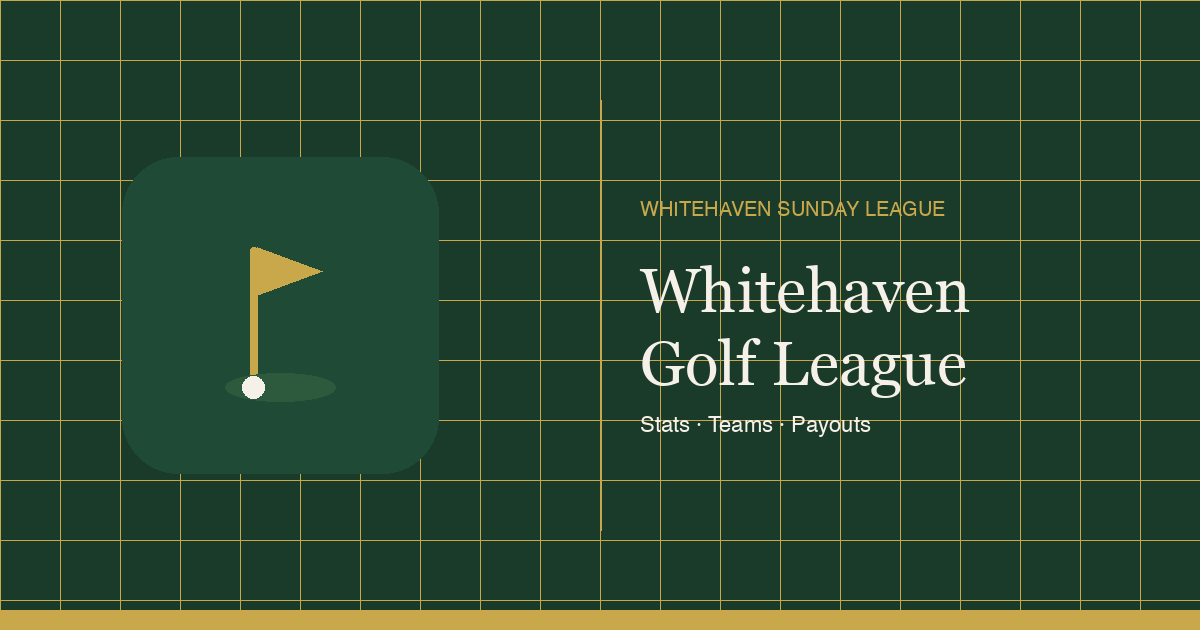
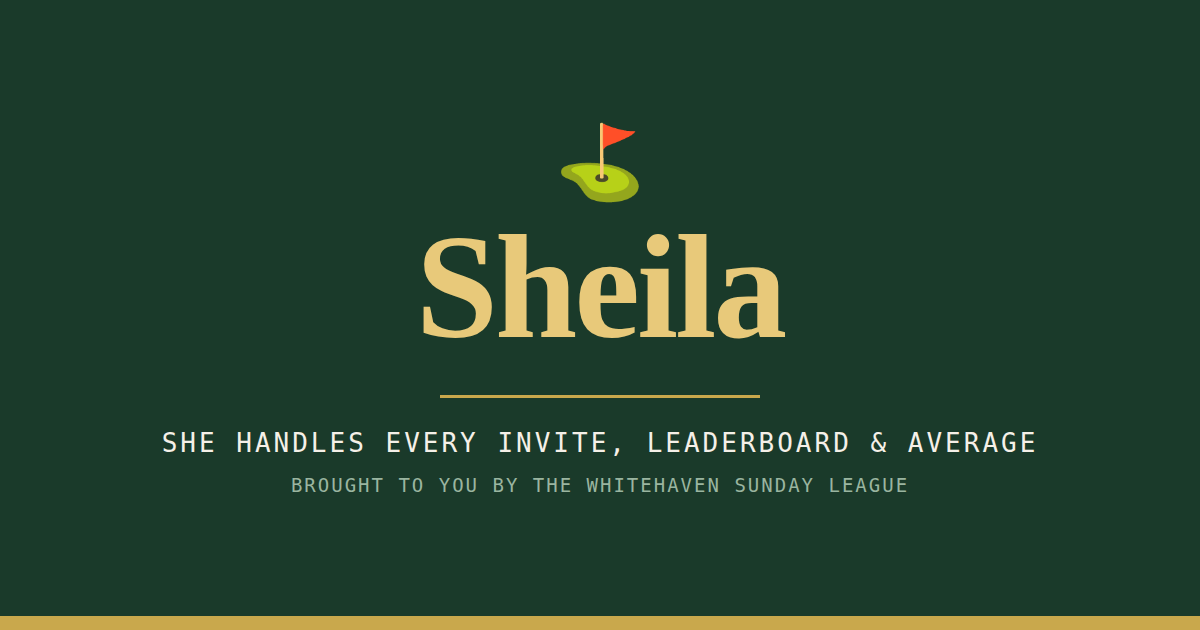
Rebrand app as Sheila, brought to you by the Whitehaven Sunday League (#4)
The league's nickname for the app is now the official brand:
- New stacked header lockup on the main app and RSVP page: gold
  "Sheila" wordmark with a small "brought to you by the Whitehaven
  Sunday League" credit line, acronym tooltip on hover
- Acronym: She Handles Every Invite, Leaderboard & Average
- Page titles, og: meta, iOS home-screen label, and PWA manifest
  renamed; og-image regenerated with the new wordmark
- Reminder emails send from "Sheila <noreply@...>" with the new
  header and a signature line
- Commish Guide intro and Release Notes intro updated; new v2.0
  "Meet Sheila" release entry
- README, CLAUDE.md, and file header comments retitled

Internal whg_ storage keys and the "Whitehaven" course defaults are
intentionally unchanged.

Claude-Session: https://claude.ai/code/session_016QFtsYT9WuBQAVqS4BUQJg

diff --git a/index.html b/index.html
@@ -3,12 +3,12 @@
 <head>
   <meta charset="UTF-8">
   <meta name="viewport" content="width=device-width, initial-scale=1.0">
-  <title>Whitehaven Golf League</title>
+  <title>Sheila — Whitehaven Sunday League</title>
   <!-- No indexing -->
   <meta name="robots" content="noindex, nofollow, noarchive">
   <!-- Open Graph -->
-  <meta property="og:title" content="Whitehaven Golf League">
-  <meta property="og:description" content="Sunday shambles league — stats, teams, and payouts.">
+  <meta property="og:title" content="Sheila">
+  <meta property="og:description" content="She Handles Every Invite, Leaderboard &amp; Average — the Whitehaven Sunday League app.">
   <meta property="og:type" content="website">
   <meta property="og:url" content="https://whitehavensundayleague.com">
   <meta property="og:image" content="https://whitehavensundayleague.com/og-image.png">
@@ -17,7 +17,7 @@
   <link rel="apple-touch-icon" href="icon.svg">
   <meta name="apple-mobile-web-app-capable" content="yes">
   <meta name="apple-mobile-web-app-status-bar-style" content="black-translucent">
-  <meta name="apple-mobile-web-app-title" content="WHG">
+  <meta name="apple-mobile-web-app-title" content="Sheila">
   <meta name="theme-color" content="#1a3a2a">
   <link href="https://fonts.googleapis.com/css2?family=Playfair+Display:wght@400;700;900&family=DM+Mono:wght@400;500&family=DM+Sans:wght@300;400;500&display=swap" rel="stylesheet">
   <link rel="stylesheet" href="style.css">
@@ -87,7 +87,10 @@
 
 <!-- ===== HEADER ===== -->
 <header>
-  <div class="logo">⛳ Whitehaven <span>Golf League</span></div>
+  <div class="logo-lockup" title="She Handles Every Invite, Leaderboard &amp; Average">
+    <div class="logo">⛳ Sheila</div>
+    <div class="logo-tagline">brought to you by the Whitehaven Sunday League</div>
+  </div>
   <nav id="main-nav">
     <!-- Commish-only tabs -->
     <a class="commish-tab" data-page="round"    href="/round"    onclick="event.preventDefault();showPage('round')">Round</a>
@@ -376,7 +379,7 @@
     <div class="card">
       <h2>Overview</h2>
       <p style="font-size:14px;color:var(--text-muted);line-height:1.6;">
-        Whitehaven runs a 9-hole shambles format. Each week follows five steps: send the RSVP link, set up the round, build teams, enter scores, then finalize. Scores and round state auto-save to the cloud as you work — safe to close and reopen at any point.
+        The Whitehaven Sunday League runs a 9-hole shambles format. Each week follows five steps: send the RSVP link, set up the round, build teams, enter scores, then finalize. This app — <strong>Sheila</strong> (She Handles Every Invite, Leaderboard &amp; Average) — auto-saves scores and round state to the cloud as you work, so it's safe to close and reopen at any point.
       </p>
       <div style="margin-top:16px;display:flex;gap:8px;flex-wrap:wrap;align-items:center;">
         <span class="tag">0 RSVP</span>
@@ -665,10 +668,24 @@
   <div id="page-releases" class="page">
     <div class="page-header">
       <h1>Release Notes</h1>
-      <p>Running log of changes to the Whitehaven Golf League app. Newest first.</p>
+      <p>Running log of changes to Sheila, the Whitehaven Sunday League app. Newest first.</p>
     </div>
 
     <div class="card">
+      <div class="release-entry">
+        <div class="release-header">
+          <span class="release-version">v2.0</span>
+          <span class="release-date">September 20, 2026</span>
+        </div>
+        <h3>Meet Sheila</h3>
+        <ul class="release-list">
+          <li><strong>The app has a name.</strong> What we've all been calling her anyway is now official: this is <strong>Sheila</strong> — <em>She Handles Every Invite, Leaderboard &amp; Average</em>.</li>
+          <li>New header wordmark on the main app and the RSVP page, with a small "brought to you by the Whitehaven Sunday League" credit line. Hover the logo for the full acronym.</li>
+          <li>Browser tab titles, the home-screen app name, and link preview cards all say Sheila now.</li>
+          <li>Reminder emails arrive from "Sheila" with the new header and a signature line.</li>
+          <li>Nothing else moved — same colors, same tabs, same login, and nobody gets signed out.</li>
+        </ul>
+      </div>
       <div class="release-entry">
         <div class="release-header">
           <span class="release-version">v1.9</span>

diff --git a/scripts/send-reminders.js b/scripts/send-reminders.js
@@ -1,6 +1,6 @@
 #!/usr/bin/env node
 /* ============================================================
-   Whitehaven Golf League — Email Reminder Script
+   Sheila (Whitehaven Sunday League) — Email Reminder Script
    Sends 24-hour reminders to RSVPd players.
    Pure Node — no npm deps (uses built-in https).
    ============================================================ */
@@ -10,7 +10,8 @@ const https = require('https');
 const SUPABASE_URL    = process.env.SUPABASE_URL;
 const SUPABASE_KEY    = process.env.SUPABASE_SERVICE_KEY;
 const RESEND_API_KEY  = process.env.RESEND_API_KEY;
-const FROM_EMAIL      = process.env.FROM_EMAIL || 'noreply@whitehavensundayleague.com';
+// FROM_EMAIL, if set via env, should include the display name: Sheila <noreply@...>
+const FROM_EMAIL      = process.env.FROM_EMAIL || 'Sheila <noreply@whitehavensundayleague.com>';
 
 if (!SUPABASE_URL || !SUPABASE_KEY || !RESEND_API_KEY) {
   console.error('Missing required env vars: SUPABASE_URL, SUPABASE_SERVICE_KEY, RESEND_API_KEY');
@@ -106,8 +107,9 @@ async function main() {
     for (const rsvp of rsvps) {
       const html = `
         <div style="font-family:sans-serif;max-width:480px;margin:0 auto;padding:24px;">
-          <div style="background:#1a3a2a;color:#e8c97a;font-size:20px;font-weight:900;padding:16px 24px;border-radius:8px 8px 0 0;border-bottom:3px solid #c9a84c;">
-            ⛳ Whitehaven Golf League
+          <div style="background:#1a3a2a;padding:16px 24px;border-radius:8px 8px 0 0;border-bottom:3px solid #c9a84c;">
+            <div style="color:#e8c97a;font-size:20px;font-weight:900;">⛳ Sheila</div>
+            <div style="color:#9ab5a0;font-size:9px;letter-spacing:0.6px;text-transform:uppercase;font-family:monospace;margin-top:2px;">brought to you by the Whitehaven Sunday League</div>
           </div>
           <div style="background:#f5f0e8;padding:24px;border-radius:0 0 8px 8px;border:1px solid #d8d0c0;border-top:none;">
             <p style="font-size:16px;margin:0 0 16px;">Hey ${rsvp.name},</p>
@@ -118,6 +120,7 @@ async function main() {
             </div>
             <p style="font-size:14px;color:#6b6b5a;margin:0;">See you tomorrow! 🏌</p>
           </div>
+          <p style="font-size:11px;color:#6b6b5a;text-align:center;margin:12px 0 0;">Sheila · She Handles Every Invite, Leaderboard &amp; Average</p>
         </div>
       `;
 

diff --git a/style.css b/style.css
@@ -1,5 +1,5 @@
 /* ============================================================
-   Whitehaven Golf League — Design System
+   Sheila — Whitehaven Sunday League — Design System
    Fonts: Playfair Display / DM Mono / DM Sans
    Colors: Forest Green + Warm Gold + Cream
    ============================================================ */
@@ -42,16 +42,32 @@ header {
   z-index: 100;
 }
 
+.logo-lockup {
+  display: flex;
+  flex-direction: column;
+  justify-content: center;
+  gap: 2px;
+  cursor: default;
+}
+
 .logo {
   font-family: 'Playfair Display', serif;
   font-size: 22px;
   font-weight: 900;
   letter-spacing: -0.5px;
+  line-height: 1;
   color: var(--gold-light);
   white-space: nowrap;
 }
 
-.logo span { color: var(--cream); font-weight: 400; }
+.logo-tagline {
+  font-family: 'DM Mono', monospace;
+  font-size: 8.5px;
+  letter-spacing: 0.6px;
+  text-transform: uppercase;
+  color: #9ab5a0;
+  white-space: nowrap;
+}
 
 nav { display: flex; gap: 2px; flex-wrap: nowrap; }
 
@@ -1023,11 +1039,14 @@ body.is-commish .commish-only-flex { display: flex; }
     gap: 0;
   }
 
-  .logo {
-    font-size: 17px;
+  .logo-lockup {
     flex: 1;
-    padding: 13px 0;
+    padding: 11px 0;
   }
+
+  .logo { font-size: 17px; }
+
+  .logo-tagline { font-size: 7px; letter-spacing: 0.4px; }
 
   .header-actions { padding: 13px 0; }
 
@@ -1195,15 +1214,22 @@ body.is-commish .commish-only-flex { display: flex; }
 /* ===== RSVP PAGE ===== */
 .rsvp-header {
   background: var(--green);
+  padding: 9px 24px;
+  min-height: 56px;
+  box-sizing: border-box;
+  display: flex;
+  flex-direction: column;
+  justify-content: center;
+  gap: 2px;
+  border-bottom: 3px solid var(--gold);
+}
+
+.rsvp-header-title {
   color: var(--gold-light);
   font-family: 'Playfair Display', serif;
   font-size: 20px;
   font-weight: 900;
-  padding: 0 24px;
-  height: 56px;
-  display: flex;
-  align-items: center;
-  border-bottom: 3px solid var(--gold);
+  line-height: 1;
 }
 
 .rsvp-body {

diff --git a/rsvp.html b/rsvp.html
@@ -3,14 +3,18 @@
 <head>
   <meta charset="UTF-8">
   <meta name="viewport" content="width=device-width, initial-scale=1.0">
-  <title>RSVP — Whitehaven Golf League</title>
+  <title>RSVP — Sheila</title>
   <meta name="robots" content="noindex, nofollow, noarchive">
+  <link rel="icon" href="icon.svg" type="image/svg+xml">
   <link href="https://fonts.googleapis.com/css2?family=Playfair+Display:wght@400;700;900&family=DM+Mono:wght@400;500&family=DM+Sans:wght@300;400;500&display=swap" rel="stylesheet">
   <link rel="stylesheet" href="style.css">
 </head>
 <body>
 
-<div class="rsvp-header">⛳ Whitehaven Golf League</div>
+<div class="rsvp-header" title="She Handles Every Invite, Leaderboard &amp; Average">
+  <div class="rsvp-header-title">⛳ Sheila</div>
+  <div class="logo-tagline">brought to you by the Whitehaven Sunday League</div>
+</div>
 
 <div class="rsvp-body">
 

diff --git a/rsvp.js b/rsvp.js
@@ -1,5 +1,5 @@
 /* ============================================================
-   Whitehaven Golf League — RSVP Page Logic
+   Sheila (Whitehaven Sunday League) — RSVP Page Logic
    Standalone (no app.js dependency)
    ============================================================ */
 

diff --git a/app.js b/app.js
@@ -1,5 +1,5 @@
 /* ============================================================
-   Whitehaven Golf League — App Logic
+   Sheila (Whitehaven Sunday League) — App Logic
    Stack: Vanilla JS + Supabase
    ============================================================ */
 

diff --git a/README.md b/README.md
@@ -1,6 +1,6 @@
-# ⛳ Whitehaven Golf League
+# ⛳ Sheila
 
-A web app for a casual 9-hole shambles golf league. Tracks teams, scores, skins, CTH bets, payouts, RSVPs, and season leaderboards.
+**S**he **H**andles **E**very **I**nvite, **L**eaderboard & **A**verage — the Whitehaven Sunday League app. Tracks teams, scores, skins, CTH bets, payouts, RSVPs, and season leaderboards for a casual 9-hole shambles golf league.
 
 **Stack:** Vanilla HTML/JS + Supabase + GitHub Pages — no build step, no framework.
 

diff --git a/CLAUDE.md b/CLAUDE.md
@@ -1,4 +1,6 @@
-# Whitehaven Golf League — Claude Guide
+# Sheila (Whitehaven Sunday League) — Claude Guide
+
+The app is branded **Sheila** — "She Handles Every Invite, Leaderboard & Average" — brought to you by the Whitehaven Sunday League. "Whitehaven" alone usually refers to the golf course (DB default, form defaults); don't rename those.
 
 ## Deployment
 
